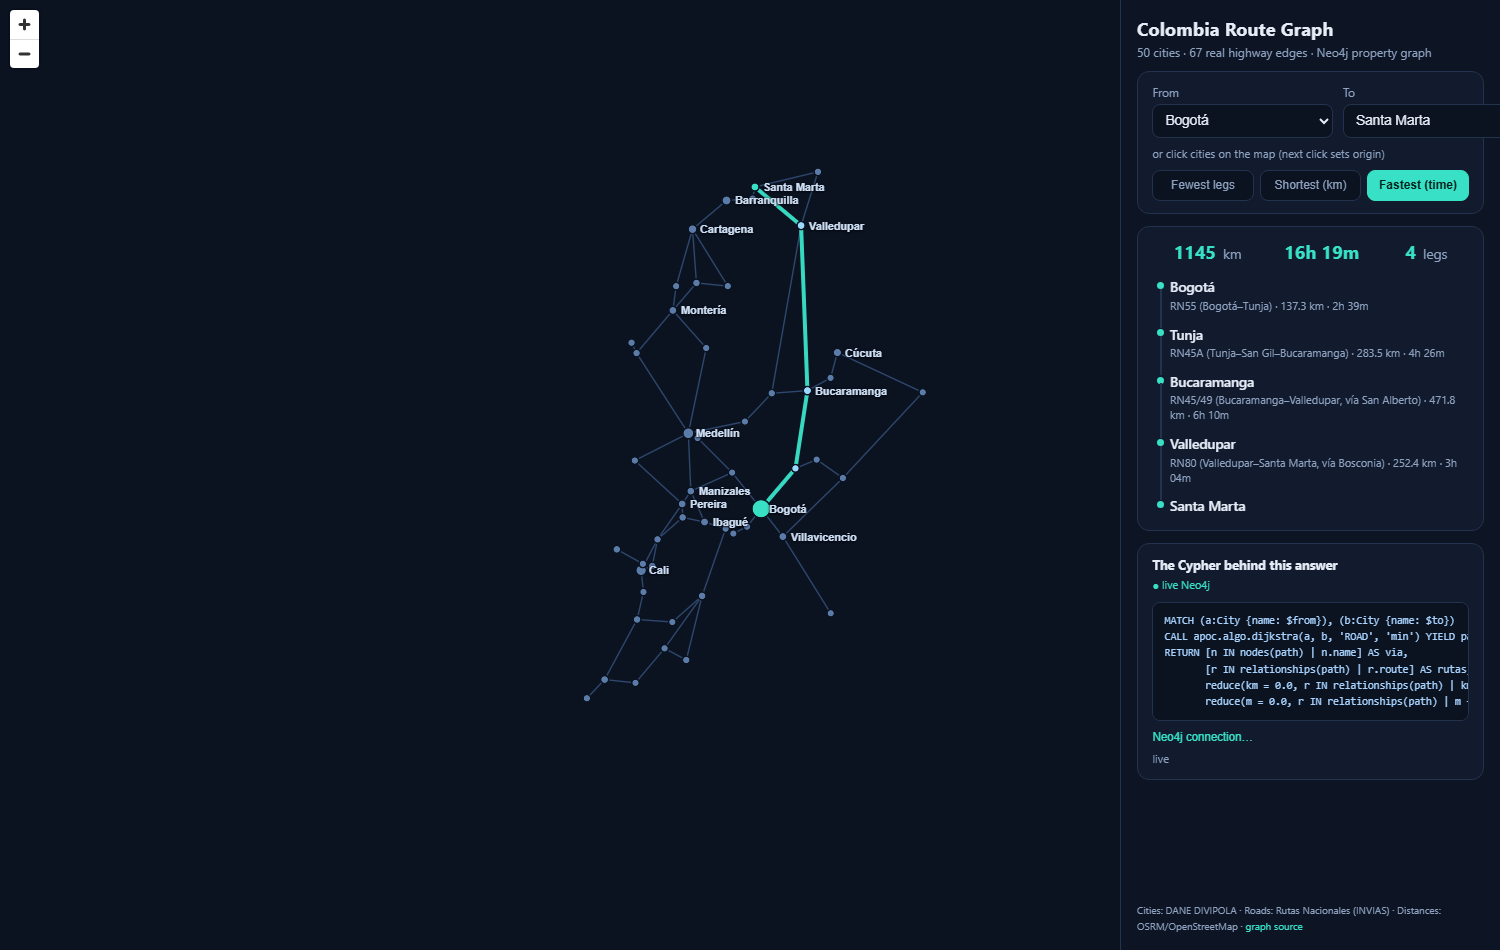
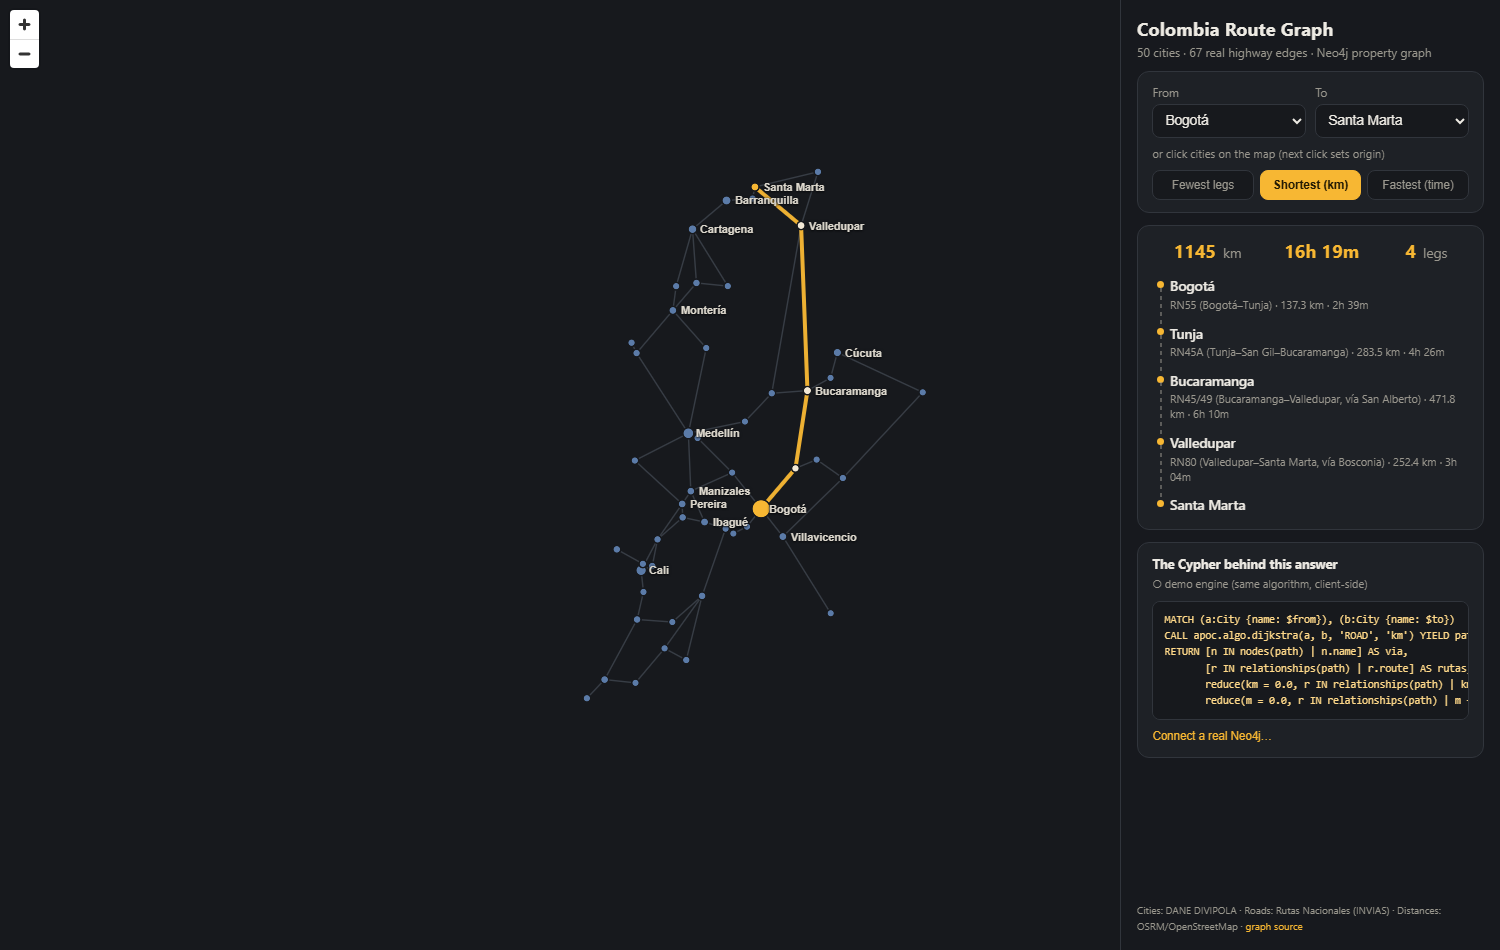
Own visual identity: asphalt + road-sign amber; fix clipped To-select
- New palette themed to the domain: warm asphalt grays, Colombian road-sign
  amber for routes/accents, lane-marking off-whites, dashed lane connectors
  in the leg list — deliberately distinct from the navy+teal used elsewhere
  in the portfolio.
- Fix: the To <select> overflowed the panel (flex children missing
  min-width: 0) and clipped off-screen. Verified numerically headless.
- README screenshot refreshed.

diff --git a/src/App.css b/src/App.css
@@ -1,10 +1,13 @@
+/* Road palette: warm asphalt grays, Colombian road-sign amber, lane-marking
+   off-whites. Deliberately NOT the navy+teal of the other portfolio apps. */
 :root {
-  --bg: #0b1220;
-  --panel: #121b2e;
-  --ink: #e6edf7;
-  --muted: #8fa3c0;
-  --line: #24334d;
-  --teal: #38e1c6;
+  --bg: #17191d;
+  --panel: #1e2126;
+  --ink: #edeae3;
+  --muted: #9a978e;
+  --line: #31353c;
+  --amber: #f7b733;
+  --amber-ink: #241b04;
 }
 
 * { box-sizing: border-box; }
@@ -15,15 +18,15 @@ body { background: var(--bg); color: var(--ink); font-family: system-ui, -apple-
 .map-container { position: absolute; inset: 0; }
 
 .city-label {
-  font-size: 0.68rem; font-weight: 600; color: #cfe0f5; white-space: nowrap;
+  font-size: 0.68rem; font-weight: 600; color: #ddd8cd; white-space: nowrap;
   pointer-events: none;
-  text-shadow: 0 0 3px #0b1220, 0 1px 2px rgba(0,0,0,0.9);
+  text-shadow: 0 0 3px #17191d, 0 1px 2px rgba(0,0,0,0.9);
 }
 
 .panel {
   position: absolute; top: 0; right: 0; bottom: 0;
-  width: 380px; max-width: 92vw; overflow-y: auto;
-  background: rgba(14, 21, 37, 0.92); backdrop-filter: blur(8px);
+  width: 380px; max-width: 92vw; overflow-y: auto; overflow-x: hidden;
+  background: rgba(24, 26, 30, 0.93); backdrop-filter: blur(8px);
   border-left: 1px solid var(--line);
   padding: 1rem; display: flex; flex-direction: column; gap: 0.7rem;
 }
@@ -35,9 +38,12 @@ body { background: var(--bg); color: var(--ink); font-family: system-ui, -apple-
   padding: 0.8rem 0.9rem;
 }
 
+/* min-width: 0 lets the flex children shrink — without it the selects
+   overflow and the "To" control clips off the panel edge. */
 .row { display: flex; gap: 0.6rem; }
-.row label { flex: 1; display: flex; flex-direction: column; gap: 0.25rem; font-size: 0.72rem; color: var(--muted); }
+.row label { flex: 1; min-width: 0; display: flex; flex-direction: column; gap: 0.25rem; font-size: 0.72rem; color: var(--muted); }
 .row select {
+  width: 100%; min-width: 0;
   background: var(--bg); color: var(--ink); border: 1px solid var(--line);
   border-radius: 8px; padding: 0.45rem 0.5rem; font-size: 0.85rem;
 }
@@ -47,24 +53,27 @@ body { background: var(--bg); color: var(--ink); font-family: system-ui, -apple-
 
 .modes { display: flex; gap: 0.4rem; margin-top: 0.6rem; }
 .modes button {
-  flex: 1; background: var(--bg); color: var(--muted);
+  flex: 1; min-width: 0; background: var(--bg); color: var(--muted);
   border: 1px solid var(--line); border-radius: 8px;
-  padding: 0.45rem 0.3rem; font-size: 0.75rem; cursor: pointer;
+  padding: 0.45rem 0.3rem; font-size: 0.73rem; cursor: pointer;
 }
-.modes button.on { color: #06251f; background: var(--teal); border-color: var(--teal); font-weight: 700; }
+.modes button.on { color: var(--amber-ink); background: var(--amber); border-color: var(--amber); font-weight: 700; }
 
 .totals { display: flex; justify-content: space-around; font-size: 0.85rem; color: var(--muted); }
-.totals strong { color: var(--teal); font-size: 1.15rem; margin-right: 0.2rem; }
+.totals strong { color: var(--amber); font-size: 1.15rem; margin-right: 0.2rem; }
 
 .via { list-style: none; margin: 0.7rem 0 0; padding: 0; }
 .via li { position: relative; padding: 0 0 0.15rem 1.1rem; }
 .via li::before {
   content: ''; position: absolute; left: 0.28rem; top: 0.42rem;
-  width: 7px; height: 7px; border-radius: 50%; background: var(--teal);
+  width: 7px; height: 7px; border-radius: 50%; background: var(--amber);
 }
 .via li:not(:last-child)::after {
   content: ''; position: absolute; left: 0.46rem; top: 0.85rem; bottom: -0.35rem;
-  width: 2px; background: var(--line);
+  width: 2px;
+  /* dashed lane-marking connector */
+  background: repeating-linear-gradient(180deg, var(--muted) 0 4px, transparent 4px 8px);
+  opacity: 0.5;
 }
 .via-city { font-size: 0.85rem; font-weight: 600; }
 .via-leg { display: block; color: var(--muted); font-size: 0.68rem; padding: 0.1rem 0 0.45rem; }
@@ -72,14 +81,14 @@ body { background: var(--bg); color: var(--ink); font-family: system-ui, -apple-
 .cypher h2 { margin: 0; font-size: 0.8rem; }
 .cypher-head { display: flex; flex-direction: column; gap: 0.25rem; }
 .engine { font-size: 0.68rem; color: var(--muted); }
-.engine--live { color: var(--teal); }
+.engine--live { color: var(--amber); }
 .cypher pre {
   margin: 0.6rem 0 0; padding: 0.6rem 0.7rem; overflow-x: auto;
   background: var(--bg); border: 1px solid var(--line); border-radius: 8px;
-  font-size: 0.66rem; line-height: 1.55; color: #a8d3ff;
+  font-size: 0.66rem; line-height: 1.55; color: #ffd98a;
 }
 .link {
-  margin-top: 0.6rem; background: none; border: 0; color: var(--teal);
+  margin-top: 0.6rem; background: none; border: 0; color: var(--amber);
   font-size: 0.72rem; cursor: pointer; padding: 0; text-align: left;
 }
 .conn { display: flex; flex-direction: column; gap: 0.4rem; margin-top: 0.5rem; }
@@ -89,14 +98,14 @@ body { background: var(--bg); color: var(--ink); font-family: system-ui, -apple-
 }
 .conn-actions { display: flex; gap: 0.5rem; }
 .conn-actions button {
-  background: var(--teal); color: #06251f; border: 0; border-radius: 8px;
+  background: var(--amber); color: var(--amber-ink); border: 0; border-radius: 8px;
   padding: 0.4rem 0.9rem; font-size: 0.75rem; font-weight: 700; cursor: pointer;
 }
 .conn-actions button:last-child:not(:first-child) { background: var(--bg); color: var(--muted); border: 1px solid var(--line); }
-.conn a { color: var(--teal); }
+.conn a { color: var(--amber); }
 
 .src { color: var(--muted); font-size: 0.62rem; line-height: 1.6; margin-top: auto; }
-.src a { color: var(--teal); text-decoration: none; }
+.src a { color: var(--amber); text-decoration: none; }
 
 @media (max-width: 700px) {
   .panel { width: 100vw; max-width: 100vw; top: auto; max-height: 55vh; border-left: 0; border-top: 1px solid var(--line); }

diff --git a/src/MapView.tsx b/src/MapView.tsx
@@ -8,7 +8,7 @@ import type { RoadGraph, RouteResult } from './lib/dijkstra';
 
 maplibregl.setWorkerUrl(maplibreWorkerUrl);
 
-const BG = '#0b1220';
+const BG = '#17191d';
 
 const BASE_STYLE: StyleSpecification = {
   version: 8,
@@ -75,12 +75,12 @@ export function MapView({ graph, route, onPickCity, originId, destId }: Props) {
 
       map.addLayer({
         id: 'edge-lines', type: 'line', source: 'edges',
-        paint: { 'line-color': '#33507a', 'line-width': 1.4, 'line-opacity': 0.85 },
+        paint: { 'line-color': '#3d434c', 'line-width': 1.4, 'line-opacity': 0.85 },
       });
       map.addLayer({
         id: 'route-lines', type: 'line', source: 'edges',
         paint: {
-          'line-color': '#38e1c6',
+          'line-color': '#f7b733',
           'line-width': ['case', ['boolean', ['feature-state', 'onRoute'], false], 4, 0],
           'line-opacity': 0.95,
         },
@@ -91,9 +91,9 @@ export function MapView({ graph, route, onPickCity, originId, destId }: Props) {
           'circle-radius': ['interpolate', ['linear'], ['get', 'pop'], 40000, 3.5, 8000000, 9],
           'circle-color': [
             'case',
-            ['boolean', ['feature-state', 'endpoint'], false], '#38e1c6',
-            ['boolean', ['feature-state', 'onRoute'], false], '#9ad8ff',
-            '#5b7ba8',
+            ['boolean', ['feature-state', 'endpoint'], false], '#f7b733',
+            ['boolean', ['feature-state', 'onRoute'], false], '#f2e8d5',
+            '#6d7681',
           ],
           'circle-stroke-color': BG,
           'circle-stroke-width': 1.5,
